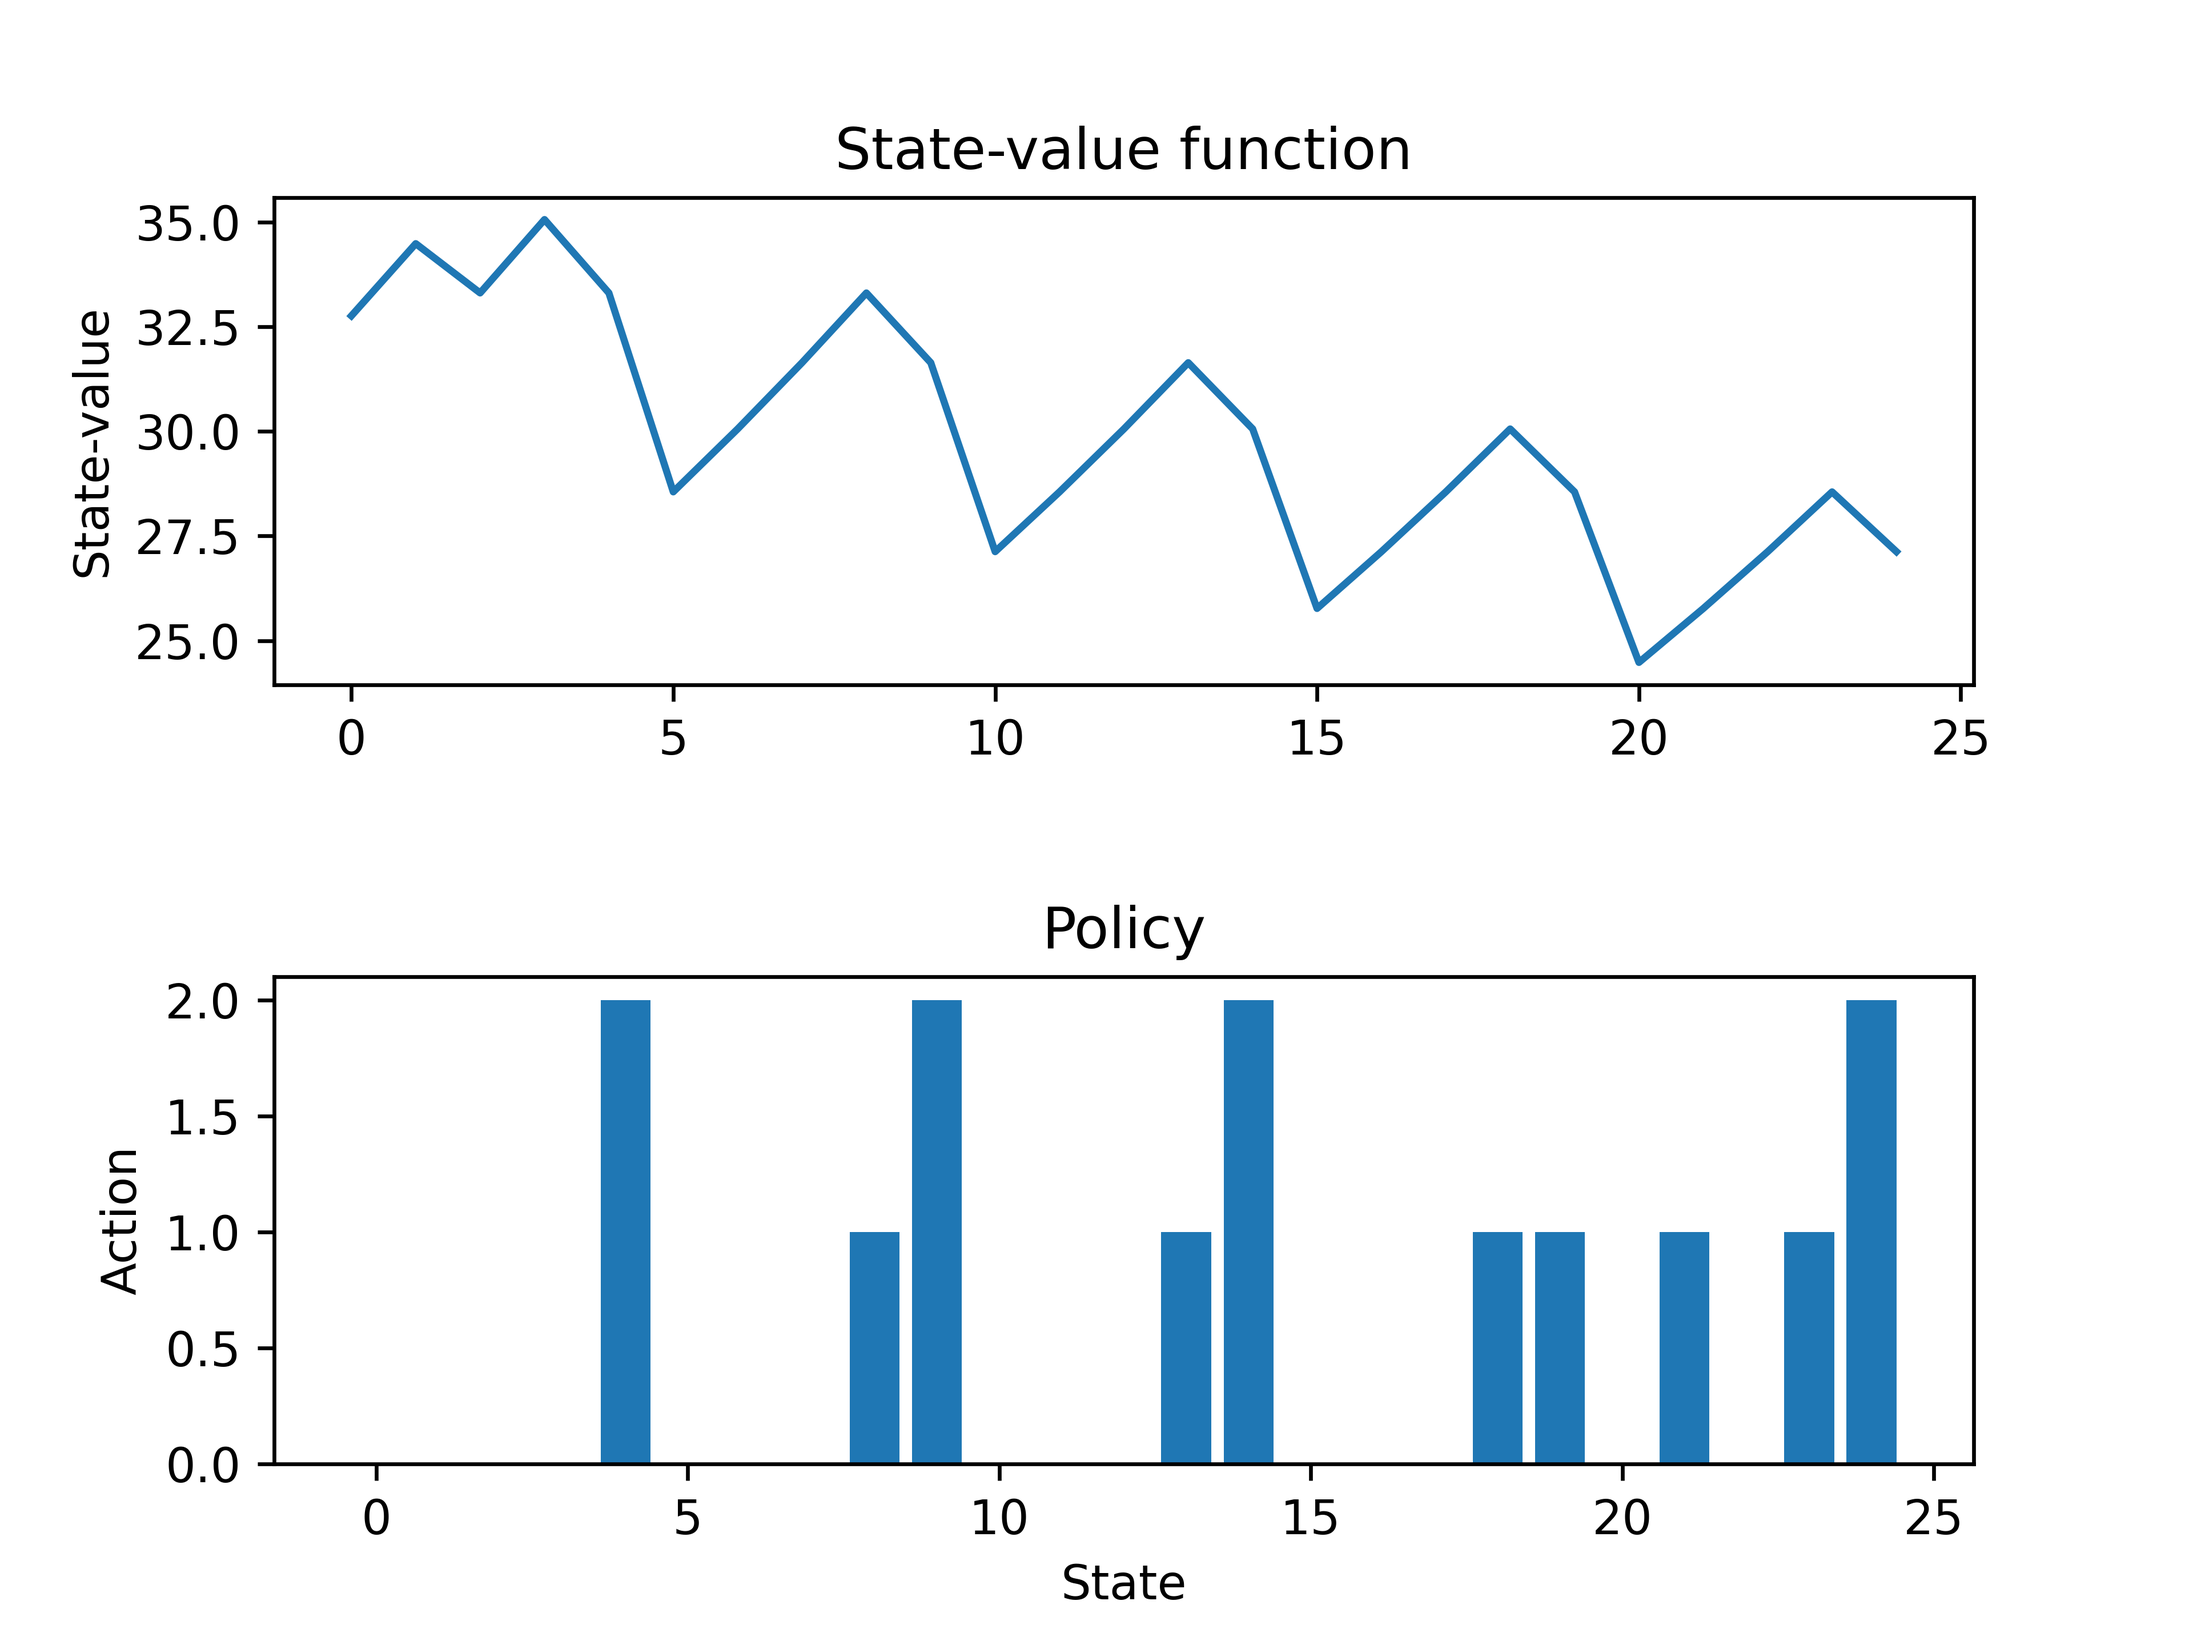
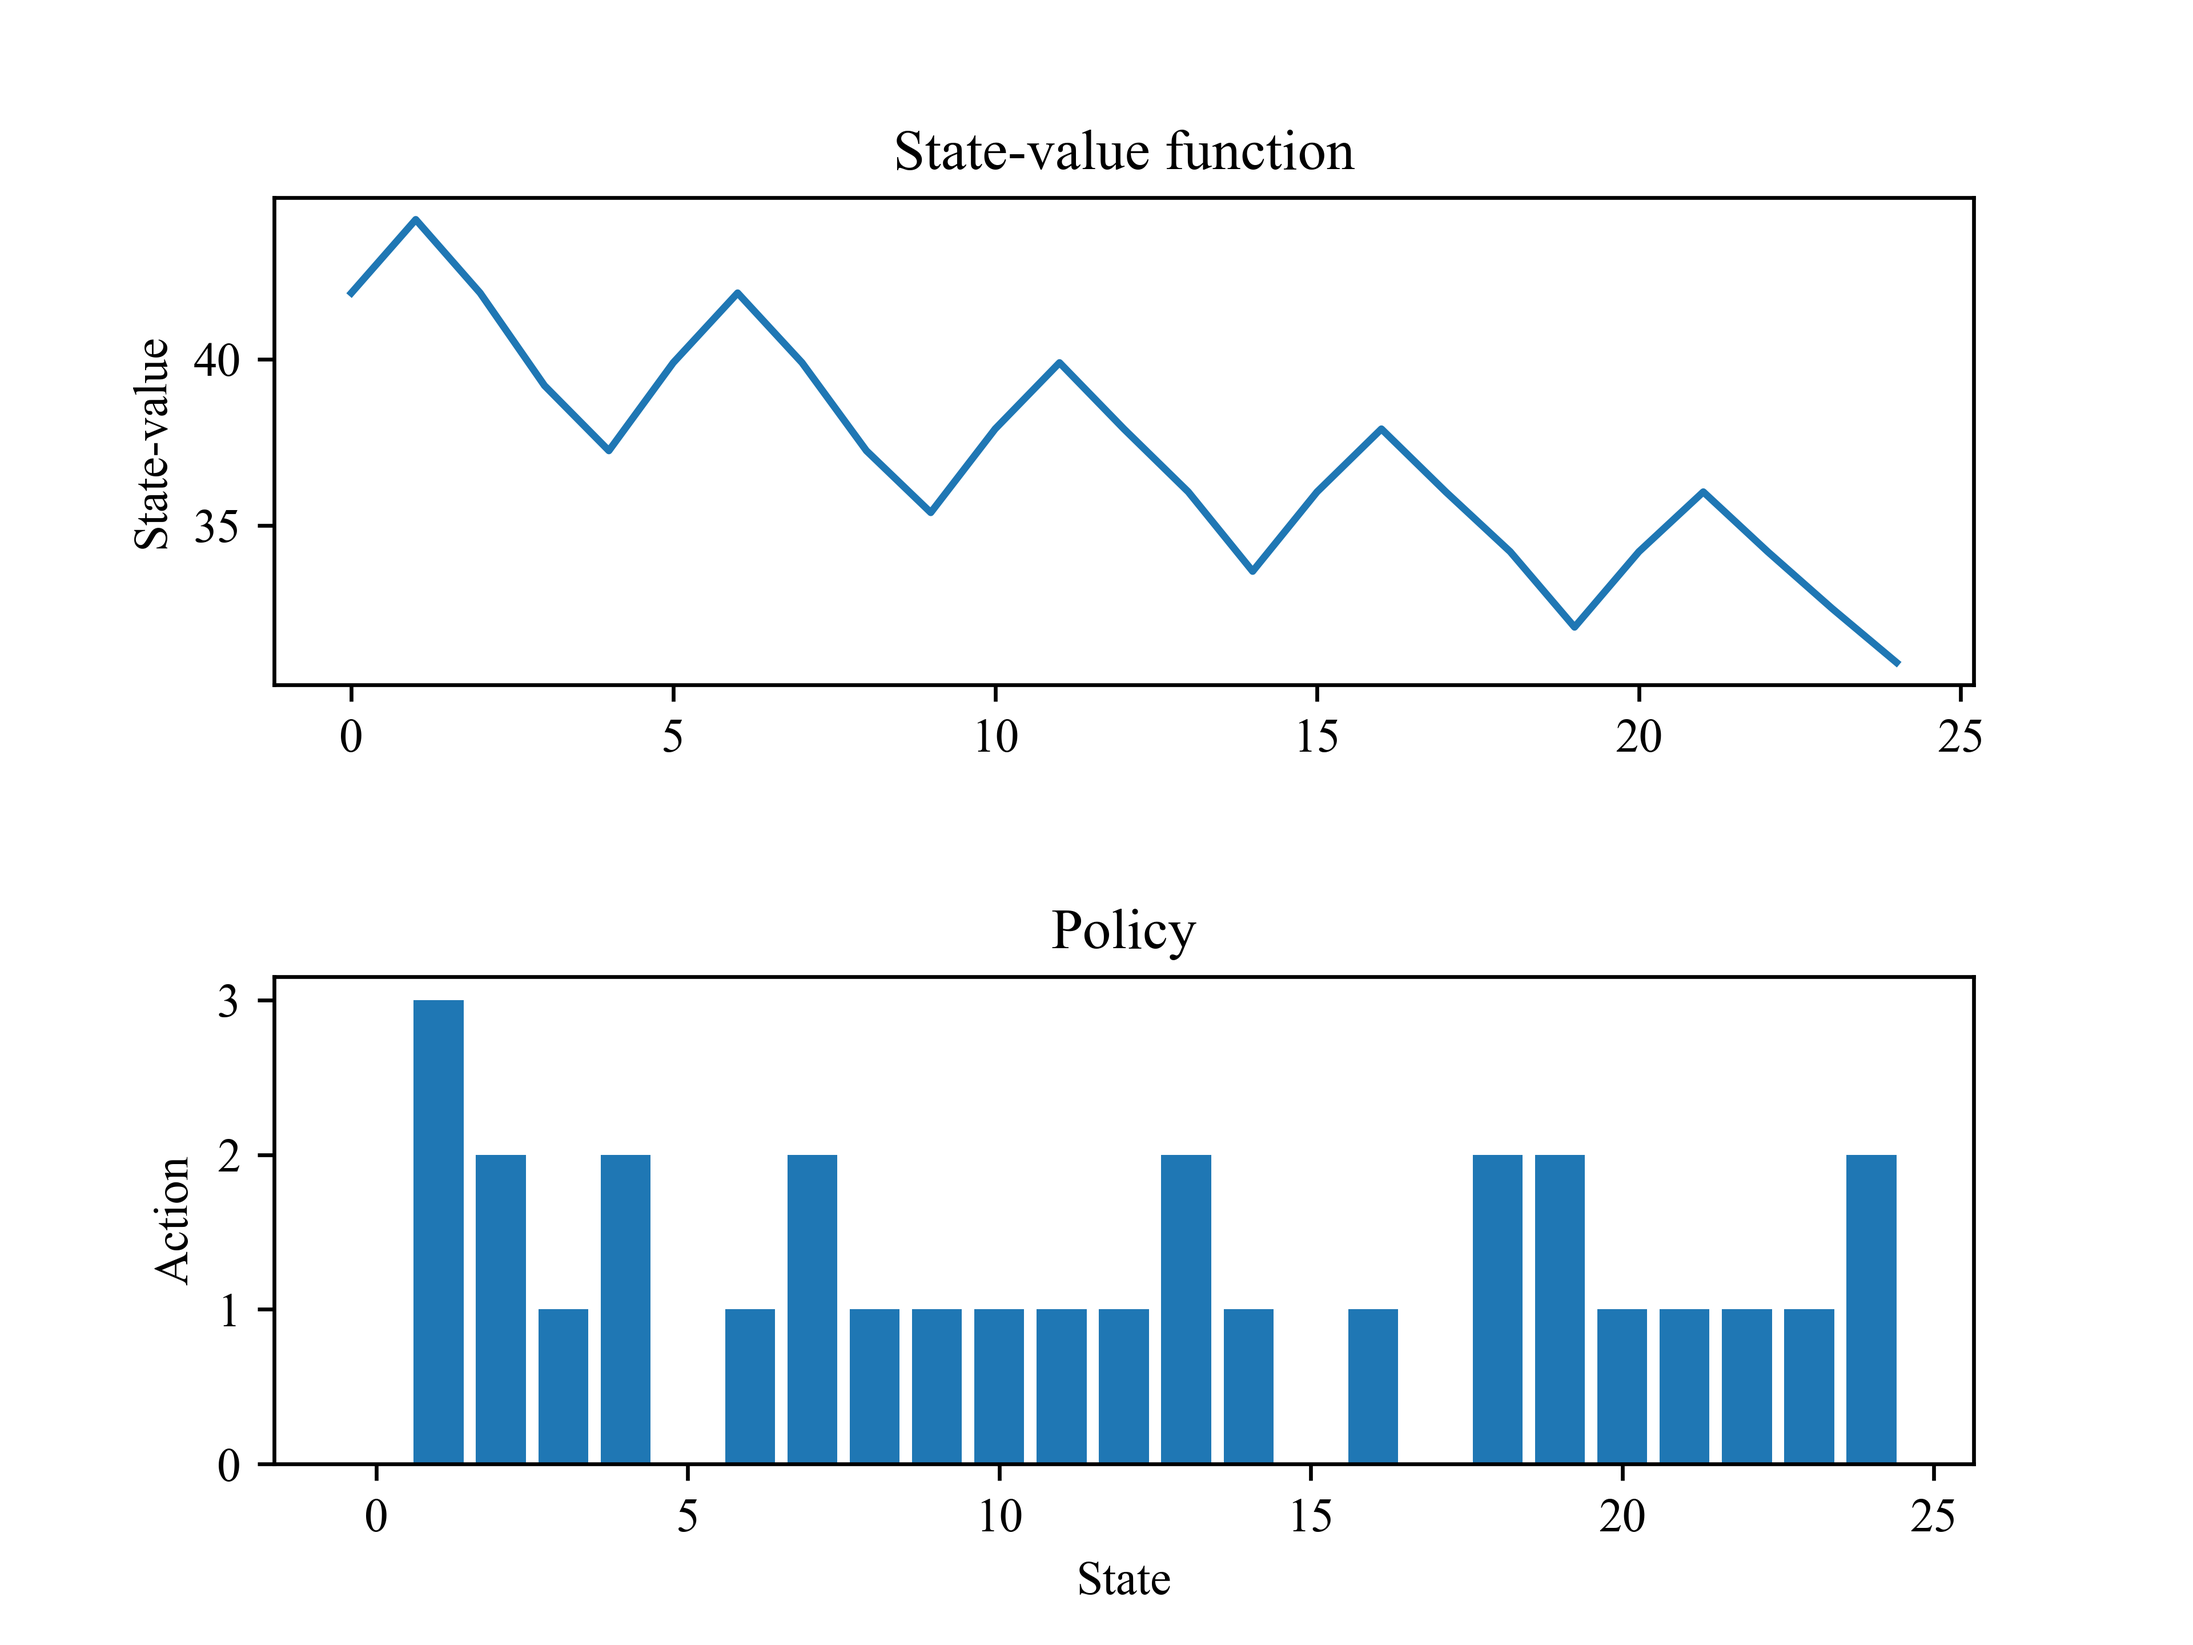
run: sarsa & q for grid

diff --git a/utils/plot.py b/utils/plot.py
@@ -3,6 +3,7 @@ from typing import Callable
 
 from matplotlib import pyplot as plt
 from numpy import ndarray
+import numpy as np
 from algorithms.policy_iteration import PolicyIteration
 from algorithms.sarsa import Sarsa
 from algorithms.value_iteration import ValueIteration
@@ -98,12 +99,15 @@ def plot_gridworld_policy(
     plt.savefig("figures/gridworld/policy_statevalue_{}.png".format(tag), dpi=600)
 
 
-def plot_learning_curve(model: Sarsa | QLearning):
+def plot_learning_curve(model: Sarsa | QLearning, is_convolved: bool = False):
     directory: str = "gridworld" if isinstance(model.env, GridWorld) else "pendulum"
     title: str = "SARSA" if isinstance(model, Sarsa) else "Q-learning"
 
     fig, ax = plt.subplots()
-    ax.plot(model.returns)
+    if is_convolved:
+        ax.plot(np.convolve(model.returns, np.ones(100) / 100, mode="valid"))
+    else:
+        ax.plot(model.returns)
     ax.set_xlabel("Episode [-]")
     ax.set_ylabel("Return [-]")
     ax.grid(True)

diff --git a/main_grid_sarsa.py b/main_grid_sarsa.py
@@ -1,3 +1,4 @@
+from matplotlib import pyplot as plt
 from algorithms.sarsa import Sarsa
 from gridworld import GridWorld
 from utils.plot import (
@@ -7,10 +8,11 @@ from utils.plot import (
 )
 
 env = GridWorld()
+plt.rcParams["font.family"] = "Times New Roman"
 
-num_episodes: int = 100
+num_episodes: int = 5000
 sarsa = Sarsa(env)
 sarsa.train(num_episodes)
 plot_gridworld_trajectory(sarsa)
 plot_gridworld_policy(sarsa)
-plot_learning_curve(sarsa)
+plot_learning_curve(sarsa, True)

diff --git a/main_batch_plot_grid.py b/main_batch_plot_grid.py
@@ -11,9 +11,9 @@ from gridworld import GridWorld
 from discrete_pendulum import Pendulum
 from utils.plot import plot_batch_lc
 
-model_name: Literal["q", "sarsa"] = "q"
-env = Pendulum()
-num_episodes: int = 200
+model_name: Literal["q", "sarsa"] = "sarsa"
+env = GridWorld()
+num_episodes: int = 500
 alphas: list[float] = [0.7, 0.5, 0.3]
 epss: list[float] = [0.15, 0.1, 0.05]
 hyperparam_pairs: list[tuple[float, float]] = list(itertools.product(alphas, epss))

diff --git a/main_grid_q.py b/main_grid_q.py
@@ -12,10 +12,10 @@ plt.rcParams["font.family"] = "Times New Roman"
 # Gird World
 env = GridWorld()
 
-num_episodes: int = 500
+num_episodes: int = 5000
 
 q = QLearning(env)
 q.train(num_episodes)
 plot_gridworld_trajectory(q)
 plot_gridworld_policy(q)
-plot_learning_curve(q)
+plot_learning_curve(q, True)
